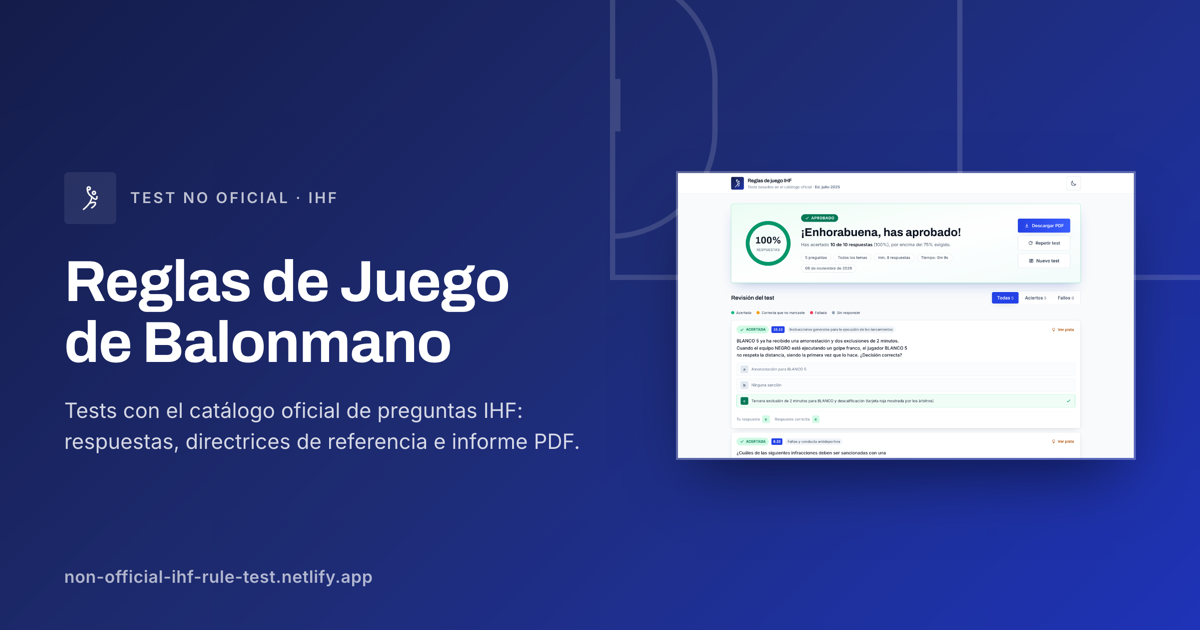
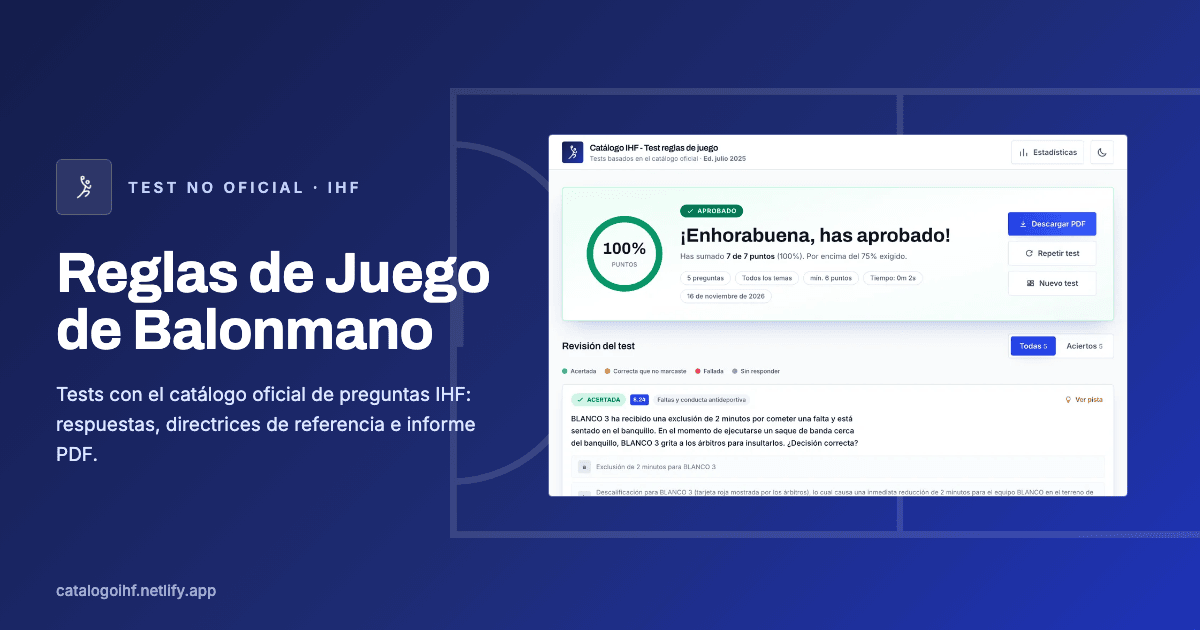
feat(exam): enhance exam session management and user experience

diff --git a/scripts/exam-session.js b/scripts/exam-session.js
@@ -1,12 +1,36 @@
-// The exam in progress, kept in localStorage so a reload or a closed tab does
-// not throw away a timed attempt. Storage is injected in tests.
+// The exam in progress, kept in localStorage so a reload does not throw away a
+// timed attempt. Storage is injected in tests.
+//
+// An exam cannot be paused: the clock runs on the deadline, so closing the tab
+// and coming back only works while time is left. Two rules keep stale or
+// foreign exams out of the way:
+// - a session whose deadline already passed is dropped, never resumed;
+// - a session owned by another tab that is still running is never overwritten,
+//   so two tabs cannot silently clobber each other.
 
 const KEY = 'ihf.exam.v1'
+const TAB_KEY = 'ihf.exam.tab'
 const VERSION = 1
 
 const defaultStorage = () => {
   try {
     return window.localStorage
+  } catch {
+    return null
+  }
+}
+
+const randomId = () => Math.random().toString(36).slice(2, 10) + Date.now().toString(36)
+
+// Per-tab identity: sessionStorage survives a reload but not a new tab, so a
+// second tab never claims to be the one that started an exam.
+const currentTab = () => {
+  try {
+    const existing = window.sessionStorage.getItem(TAB_KEY)
+    if (existing) return existing
+    const id = randomId()
+    window.sessionStorage.setItem(TAB_KEY, id)
+    return id
   } catch {
     return null
   }
@@ -23,6 +47,18 @@ const isSession = (value) =>
   Array.isArray(value.selected) &&
   value.selected.length === value.questionIds.length
 
+const read = (storage) => {
+  if (!storage) return null
+  try {
+    const raw = storage.getItem(KEY)
+    if (!raw) return null
+    const parsed = JSON.parse(raw)
+    return parsed && parsed.v === VERSION ? parsed : null
+  } catch {
+    return null
+  }
+}
+
 export const clear = (storage = defaultStorage()) => {
   if (!storage) return false
   try {
@@ -33,38 +69,40 @@ export const clear = (storage = defaultStorage()) => {
   }
 }
 
-export const save = (session, storage = defaultStorage()) => {
+export const save = (session, storage = defaultStorage(), context = {}) => {
   if (!storage) return false
+  const tab = context.tab === undefined ? currentTab() : context.tab
+  const now = context.now === undefined ? Date.now() : context.now
+
+  // A live exam from another tab keeps the slot; this attempt still runs, it
+  // just is not the one that would be resumed.
+  const stored = read(storage)
+  if (stored && stored.tab && tab && stored.tab !== tab && stored.deadline > now) return false
+
   try {
-    storage.setItem(KEY, JSON.stringify({ v: VERSION, ...session }))
+    storage.setItem(KEY, JSON.stringify({ v: VERSION, tab, ...session }))
     return true
   } catch {
     return false
   }
 }
 
-// An expired session is still returned: the quiz mounts, the clock expires on
-// its first tick and delivers the saved answers, which is what the timer would
-// have done had the tab stayed open.
-export const load = (storage = defaultStorage()) => {
+// Only a live session loads. Once the deadline passed the attempt is gone: it
+// cannot be paused, so there is nothing to come back to.
+export const load = (storage = defaultStorage(), now = Date.now()) => {
   if (!storage) return null
-  let raw
-  try {
-    raw = storage.getItem(KEY)
-  } catch {
-    return null
-  }
-  if (!raw) return null
 
   let parsed
   try {
-    parsed = JSON.parse(raw)
+    parsed = JSON.parse(storage.getItem(KEY) || 'null')
   } catch {
     clear(storage)
     return null
   }
 
-  if (!isSession(parsed)) {
+  if (!parsed) return null
+
+  if (!isSession(parsed) || parsed.deadline <= now) {
     clear(storage)
     return null
   }

diff --git a/scripts/quiz.js b/scripts/quiz.js
@@ -16,9 +16,13 @@ export const createQuiz = ({ pool = [], size, rng = Math.random, items: restored
   // A resumed exam keeps its exact questions and order; a fresh one shuffles.
   const count = Math.min(size, pool.length)
   const items = restoredItems ? restoredItems.slice() : shuffle(pool, rng).slice(0, count)
-  const selected = items.map((_, index) => {
+  const selected = items.map((question, index) => {
     const letters = restored?.[index]
-    return Array.isArray(letters) ? letters.slice() : []
+    if (!Array.isArray(letters)) return []
+    // A restored answer can outlive a dataset change: letters that no longer
+    // exist on the question are dropped instead of counted as misses.
+    const allowed = new Set(question.options.map((option) => option.letter))
+    return letters.filter((letter) => allowed.has(letter))
   })
 
   return {

diff --git a/scripts/screens/setup.js b/scripts/screens/setup.js
@@ -209,7 +209,7 @@ export const mount = (node, options) => {
             el('h2', { class: 'font-display text-lg font-semibold text-ink', text: 'Tienes un examen a medias' }),
             el('p', {
               class: 'mt-0.5 text-xs leading-relaxed text-slate-600 dark:text-slate-300',
-              text: `Quedan ${formatClock(remainingSeconds(resume.deadline, Date.now()))}. Conserva tus respuestas; si el tiempo ya se agotó, se entregará al reanudar.`,
+              text: `Quedan ${formatClock(remainingSeconds(resume.deadline, Date.now()))}. El reloj no se detiene: si el tiempo se agota antes de que vuelvas, el examen se pierde.`,
             }),
           ),
         ),

diff --git a/README.md b/README.md
@@ -32,7 +32,8 @@ estadísticas viajan con la web y viven en el navegador.
 - **Modo examen**: 30 preguntas de todo el reglamento en 35 minutos, sin pistas,
   con las reglas de corrección antes de empezar, avisos a los 5 minutos y al
   último minuto, entrega automática cuando el tiempo llega a cero y examen
-  reanudable si recargas la página.
+  reanudable si cierras o recargas la pestaña mientras quede tiempo (el reloj
+  nunca se detiene, así que un examen vencido ya no se puede recuperar).
 - **Corrección por respuesta**: cada opción correcta suma un punto y cada opción
   errónea resta uno; la selección parcial de aciertos cuenta.
 - **Pistas con el reglamento**: en cada pregunta puedes abrir las directrices
